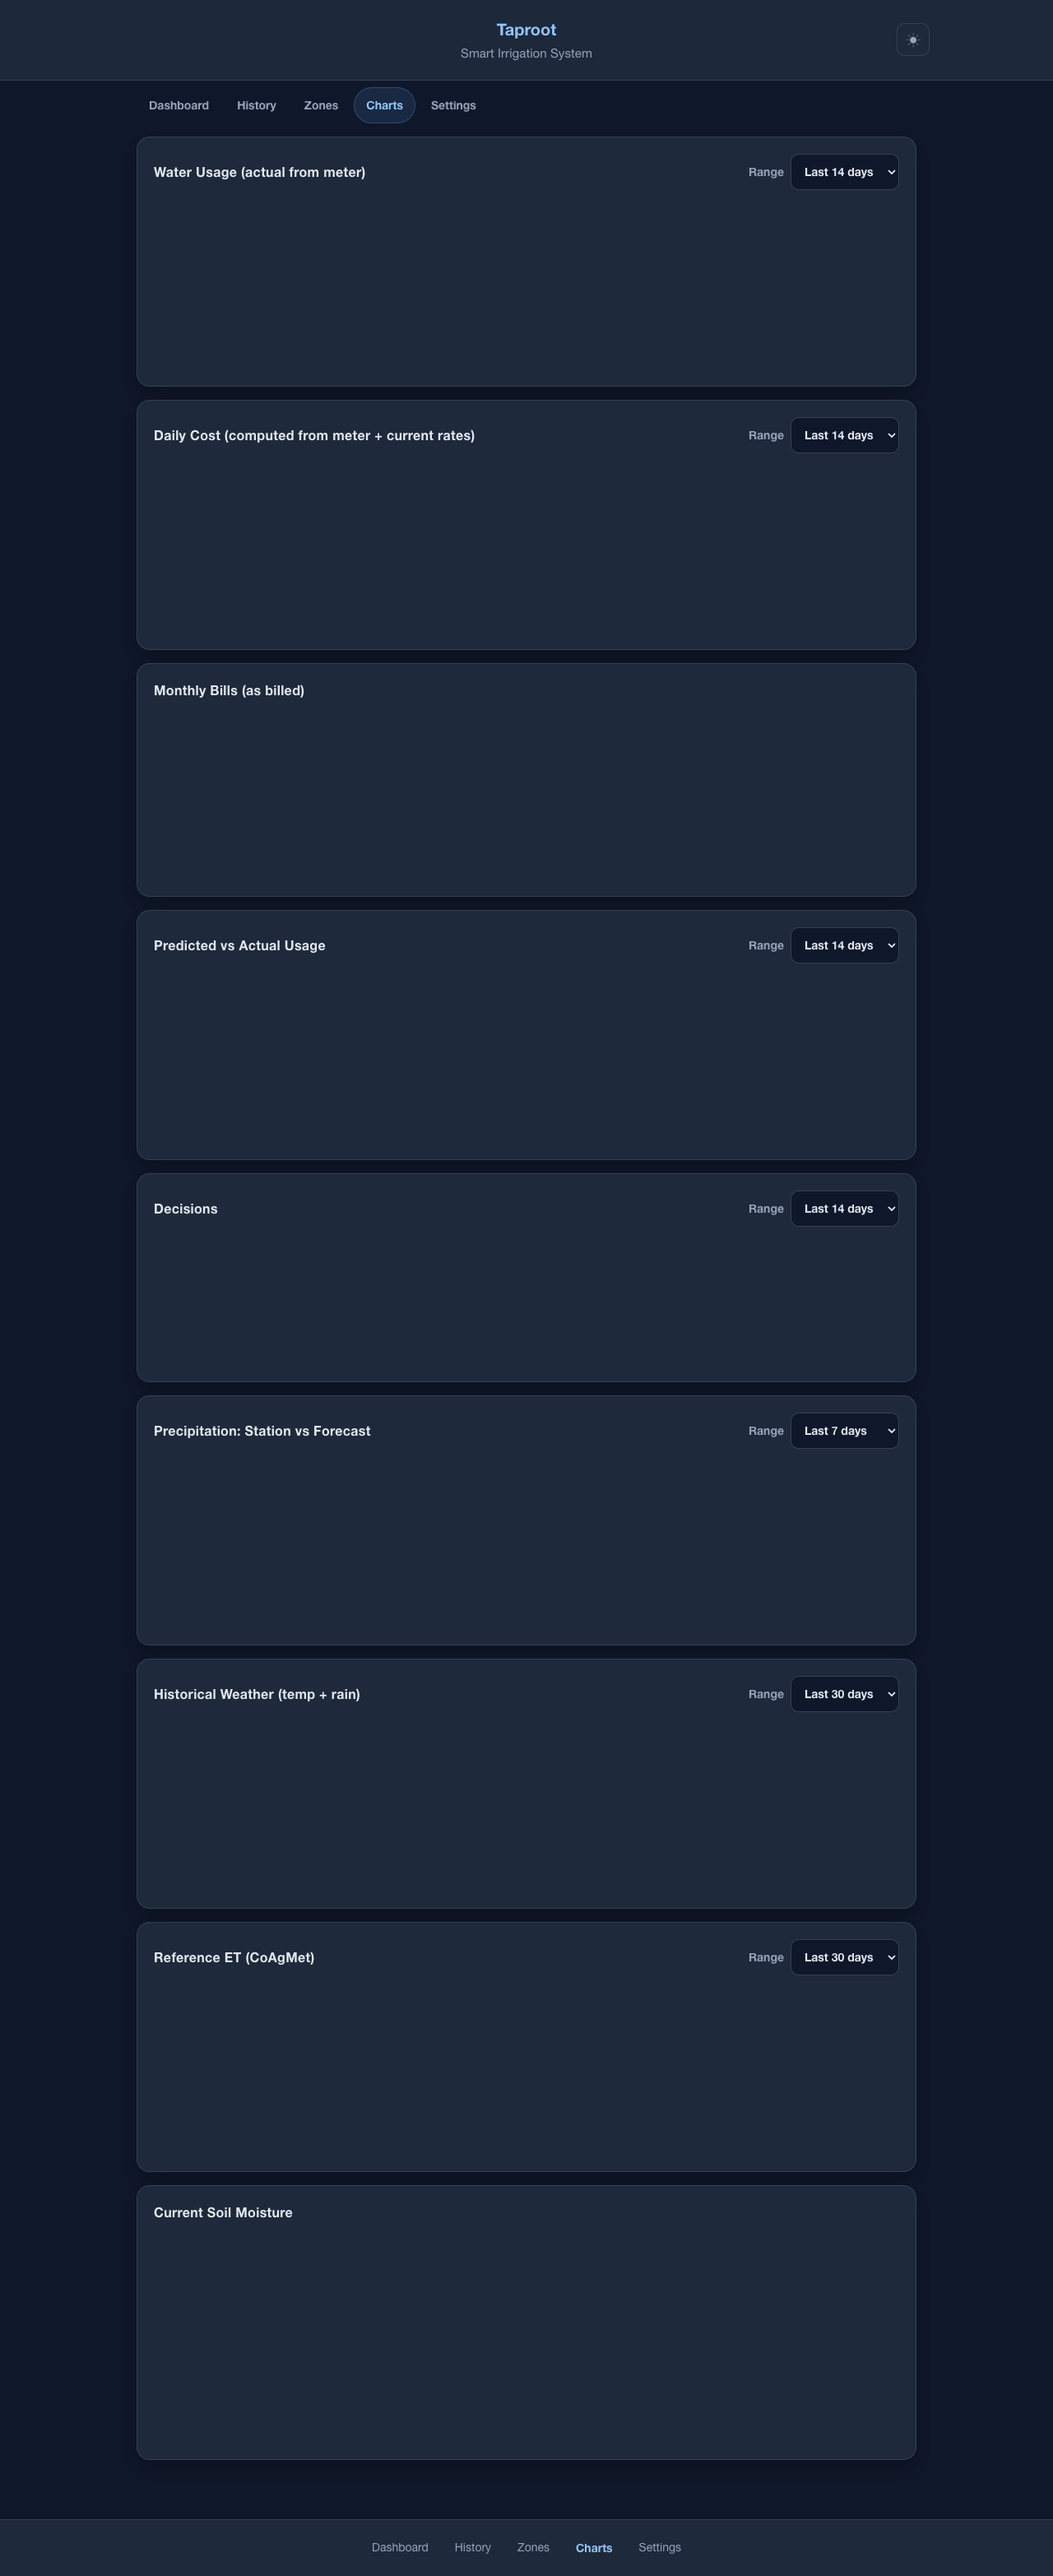
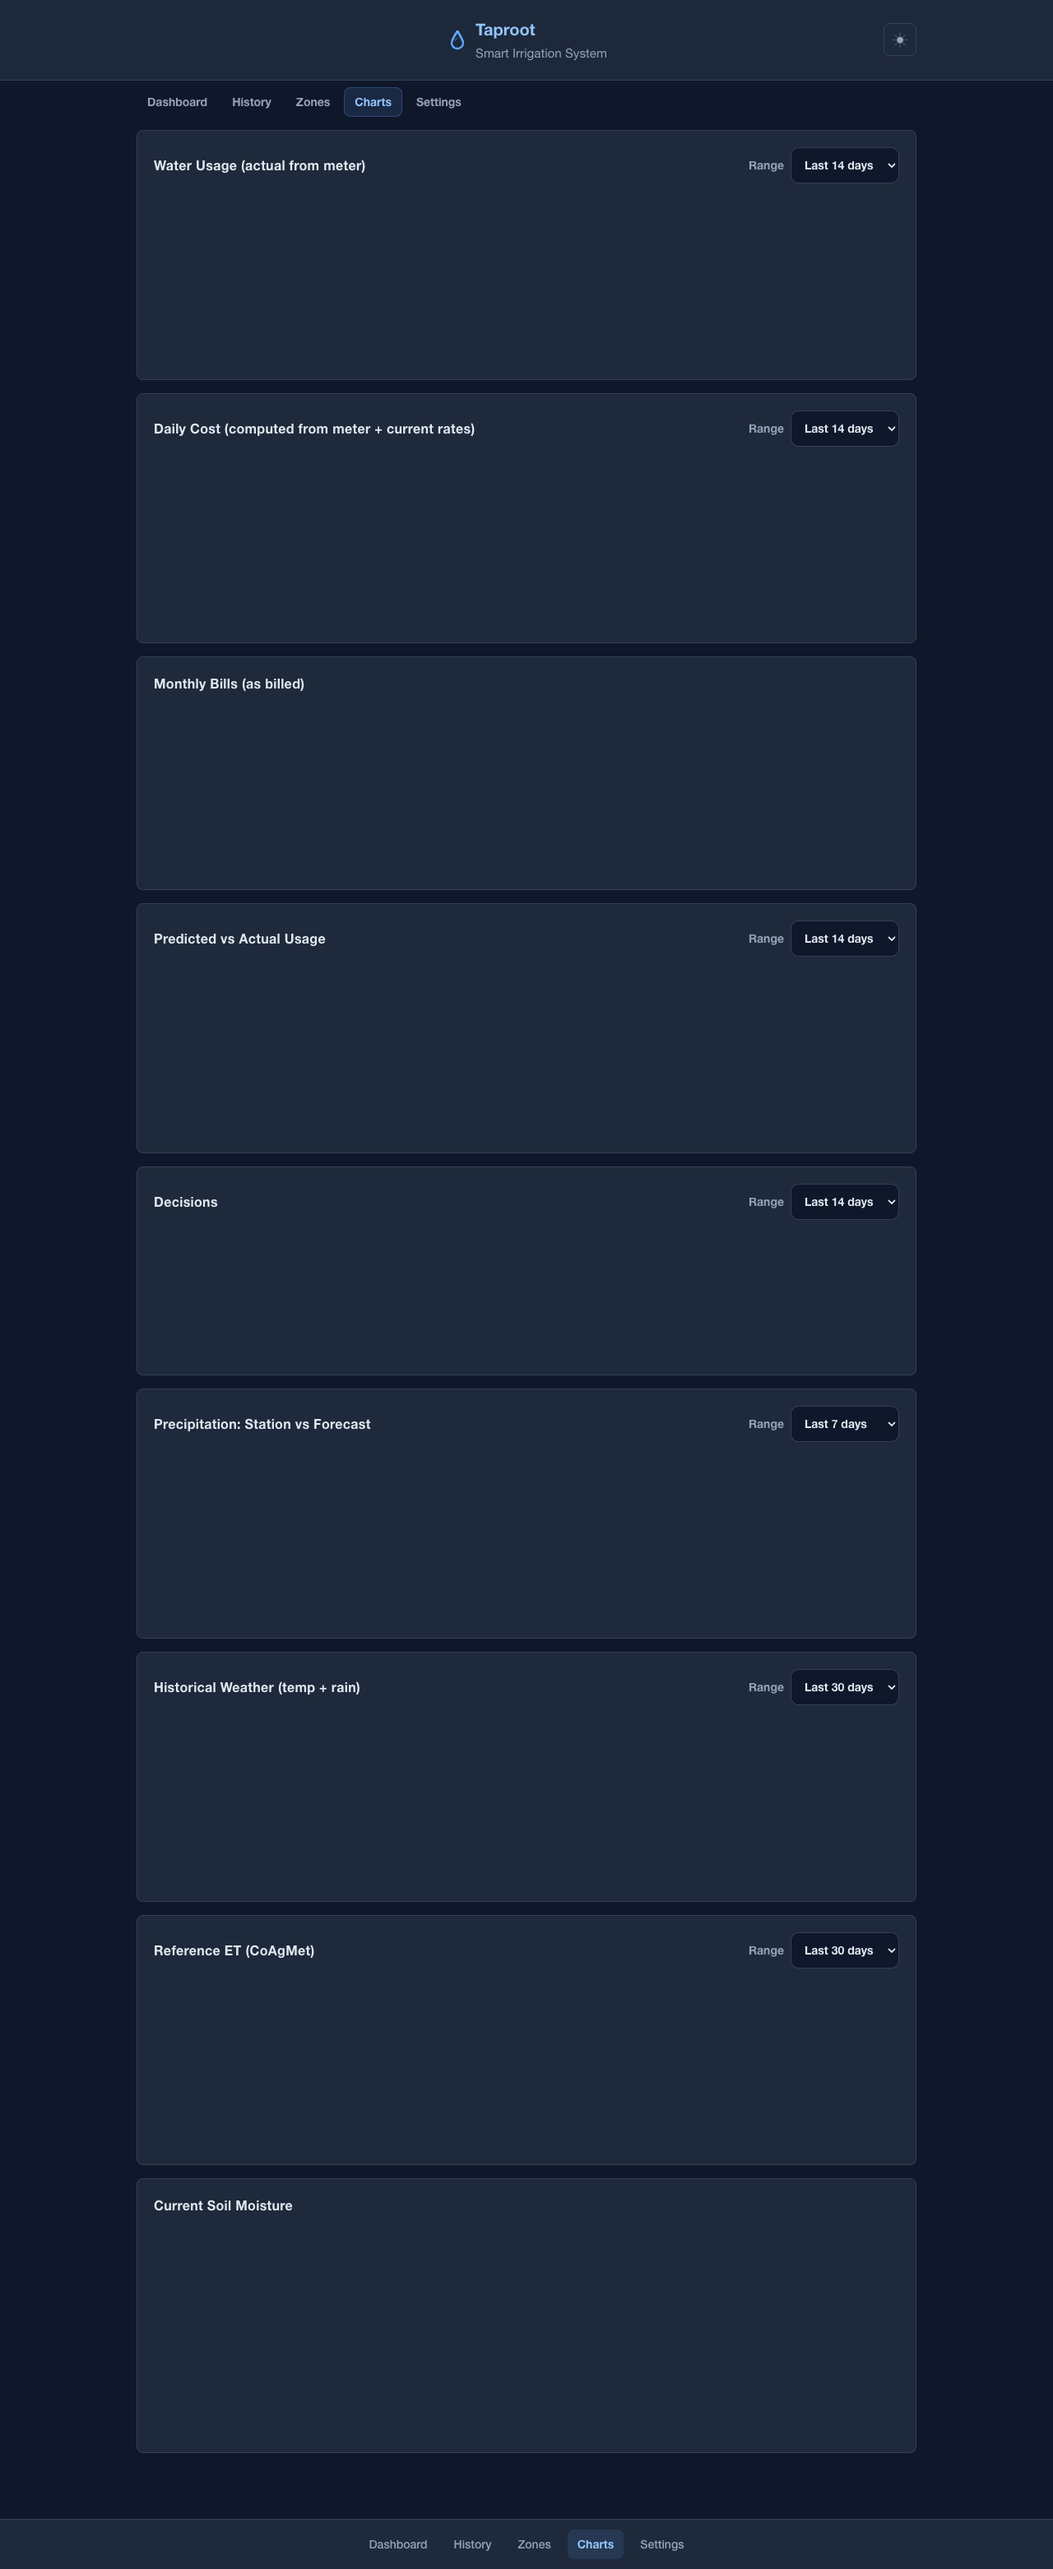
fix(charts): move inline <script> to external file (CSP blocked inline)
Previous commits' chart render code was inside a <script> block that CSP
(script-src 'self') silently blocked. Chart.js loaded fine but nothing
rendered because the initialization code never executed.

- New src/public/charts-page.js with all render logic (wrapped in IIFE,
  DOMContentLoaded-guarded)
- charts.js emits <script src="/charts-page.js?v=..."> instead of inline
- /charts-page.js added to PUBLIC_PATHS
- Legacy inline block preserved in a comment for reference
- Shrunk water-drop icon 28->20px to match text x-height proportion

diff --git a/src/public/charts-page.js b/src/public/charts-page.js
@@ -1,0 +1,303 @@
+// Charts page renderer. Loaded as an external script so CSP (script-src 'self')
+// doesn't block it. Chart.js is bundled at /chart.umd.min.js and loaded via a
+// <script> tag before this file.
+
+(function () {
+  const colors = {
+    blue: 'rgba(11, 95, 255, 0.7)',
+    green: 'rgba(15, 123, 62, 0.7)',
+    orange: 'rgba(161, 92, 0, 0.7)',
+    red: 'rgba(180, 35, 24, 0.7)',
+    purple: 'rgba(120, 60, 200, 0.7)',
+    lightGreen: 'rgba(15, 123, 62, 0.15)',
+    lightBlue: 'rgba(11, 95, 255, 0.15)',
+  };
+  const chartCache = new Map();
+  const chartInstances = {};
+
+  async function fetchChartData(days) {
+    const cacheKey = String(days);
+    if (!chartCache.has(cacheKey)) {
+      chartCache.set(cacheKey, fetch('/api/charts?days=' + encodeURIComponent(days))
+        .then(response => {
+          if (!response.ok) {
+            throw new Error('Chart data request failed with status ' + response.status);
+          }
+          return response.json();
+        }));
+    }
+    return chartCache.get(cacheKey);
+  }
+
+  function destroyChart(key) {
+    if (chartInstances[key]) {
+      chartInstances[key].destroy();
+      delete chartInstances[key];
+    }
+  }
+
+  function renderUsageChart(data) {
+    destroyChart('usage');
+    const rows = data.dailyUsage || [];
+    if (rows.length === 0) return;
+    chartInstances.usage = new Chart(document.getElementById('usageChart'), {
+      type: 'bar',
+      data: {
+        labels: rows.map(day => day.date.slice(5)),
+        datasets: [{
+          label: 'Gallons (AquaHawk)',
+          data: rows.map(day => day.gallons),
+          backgroundColor: colors.blue,
+          borderRadius: 4,
+        }],
+      },
+      options: {
+        responsive: true,
+        scales: { y: { beginAtZero: true, title: { display: true, text: 'Gallons' } } },
+      },
+    });
+  }
+
+  function renderCostChart(data) {
+    destroyChart('cost');
+    const rows = data.dailyUsage || [];
+    if (rows.length === 0) return;
+    chartInstances.cost = new Chart(document.getElementById('costChart'), {
+      type: 'line',
+      data: {
+        labels: rows.map(day => day.date.slice(5)),
+        datasets: [{
+          label: 'Cost ($)',
+          data: rows.map(day => day.cost),
+          borderColor: colors.green,
+          backgroundColor: colors.lightGreen,
+          fill: true,
+          tension: 0.3,
+        }],
+      },
+      options: {
+        responsive: true,
+        plugins: { legend: { display: false } },
+        scales: { y: { beginAtZero: true } },
+      },
+    });
+  }
+
+  function renderBillsChart(data) {
+    destroyChart('bills');
+    const bills = data.bills || [];
+    if (bills.length === 0) return;
+    chartInstances.bills = new Chart(document.getElementById('billsChart'), {
+      type: 'bar',
+      data: {
+        labels: bills.map(b => b.period_end),
+        datasets: [
+          { label: 'Water Service', data: bills.map(b => b.water_service || 0), backgroundColor: colors.blue, stack: 'cost' },
+          { label: 'Base Fee',      data: bills.map(b => b.water_base_fee || 0), backgroundColor: colors.green, stack: 'cost' },
+          { label: 'Wastewater',    data: bills.map(b => b.wastewater || 0), backgroundColor: colors.orange, stack: 'cost' },
+          { label: 'Drainage',      data: bills.map(b => b.drainage || 0), backgroundColor: colors.purple, stack: 'cost' },
+        ],
+      },
+      options: {
+        responsive: true,
+        scales: {
+          x: { stacked: true, title: { display: true, text: 'Bill period end' } },
+          y: { stacked: true, beginAtZero: true, title: { display: true, text: '$' } },
+        },
+      },
+    });
+  }
+
+  function renderPredVsActualChart(data) {
+    destroyChart('predVsActual');
+    const rows = (data.dailyUsage || []).filter(r => r.actual_gallons != null || r.predicted_gallons != null);
+    if (rows.length === 0) return;
+    chartInstances.predVsActual = new Chart(document.getElementById('predVsActualChart'), {
+      type: 'line',
+      data: {
+        labels: rows.map(r => r.date.slice(5)),
+        datasets: [
+          { label: 'Actual (AquaHawk)', data: rows.map(r => r.actual_gallons), borderColor: colors.blue, backgroundColor: colors.lightBlue, fill: false, tension: 0.2 },
+          { label: 'Predicted (Taproot model)', data: rows.map(r => r.predicted_gallons), borderColor: colors.orange, backgroundColor: 'transparent', fill: false, borderDash: [5, 3], tension: 0.2 },
+        ],
+      },
+      options: {
+        responsive: true,
+        scales: { y: { beginAtZero: true, title: { display: true, text: 'Gallons' } } },
+      },
+    });
+  }
+
+  function renderDecisionChart(data) {
+    destroyChart('decision');
+    if (data.decisions.length === 0) return;
+    const dateCounts = {};
+    for (const decision of data.decisions) {
+      const key = decision.date;
+      if (!dateCounts[key]) dateCounts[key] = { water: 0, skip: 0 };
+      dateCounts[key][decision.decision === 'WATER' ? 'water' : 'skip']++;
+    }
+    const dates = Object.keys(dateCounts).sort();
+    chartInstances.decision = new Chart(document.getElementById('decisionChart'), {
+      type: 'bar',
+      data: {
+        labels: dates.map(date => date.slice(5)),
+        datasets: [
+          { label: 'Water', data: dates.map(date => dateCounts[date].water), backgroundColor: colors.blue, borderRadius: 4 },
+          { label: 'Skip', data: dates.map(date => dateCounts[date].skip), backgroundColor: colors.orange, borderRadius: 4 },
+        ],
+      },
+      options: {
+        responsive: true,
+        scales: { x: { stacked: true }, y: { stacked: true, beginAtZero: true } },
+      },
+    });
+  }
+
+  function renderPrecipChart(data) {
+    destroyChart('precip');
+    if (data.precipAudits.length === 0) return;
+    const audits = [...data.precipAudits].reverse();
+    chartInstances.precip = new Chart(document.getElementById('precipChart'), {
+      type: 'bar',
+      data: {
+        labels: audits.map(day => day.date.slice(5)),
+        datasets: [
+          { label: 'Your Station', data: audits.map(day => day.ambient_inches), backgroundColor: colors.blue, borderRadius: 4 },
+          { label: 'OpenMeteo', data: audits.map(day => day.openmeteo_inches), backgroundColor: colors.orange, borderRadius: 4 },
+        ],
+      },
+      options: {
+        responsive: true,
+        scales: { y: { beginAtZero: true, title: { display: true, text: 'Inches' } } },
+      },
+    });
+  }
+
+  function renderWeatherChart(data) {
+    destroyChart('weather');
+    const rows = data.weatherHistory || [];
+    if (rows.length === 0) return;
+    const seen = new Set();
+    const unique = rows.filter(r => (seen.has(r.date) ? false : (seen.add(r.date), true)));
+    chartInstances.weather = new Chart(document.getElementById('weatherChart'), {
+      data: {
+        labels: unique.map(r => r.date.slice(5)),
+        datasets: [
+          { type: 'line', label: 'High', data: unique.map(r => r.temp_max), borderColor: colors.red, backgroundColor: 'transparent', yAxisID: 'y', tension: 0.3 },
+          { type: 'line', label: 'Low', data: unique.map(r => r.temp_min), borderColor: colors.blue, backgroundColor: 'transparent', yAxisID: 'y', tension: 0.3 },
+          { type: 'bar', label: 'Rain (in)', data: unique.map(r => r.precipitation || 0), backgroundColor: colors.lightBlue, yAxisID: 'y1' },
+        ],
+      },
+      options: {
+        responsive: true,
+        scales: {
+          y: { type: 'linear', position: 'left', title: { display: true, text: 'F' } },
+          y1: { type: 'linear', position: 'right', grid: { drawOnChartArea: false }, title: { display: true, text: 'inches' }, beginAtZero: true },
+        },
+      },
+    });
+  }
+
+  function renderEtChart(data) {
+    destroyChart('et');
+    const rows = data.referenceET || [];
+    if (rows.length === 0) return;
+    chartInstances.et = new Chart(document.getElementById('etChart'), {
+      type: 'line',
+      data: {
+        labels: rows.map(r => r.date.slice(5)),
+        datasets: [{
+          label: 'Reference ETo (inches)',
+          data: rows.map(r => r.reference_eto),
+          borderColor: colors.green,
+          backgroundColor: colors.lightGreen,
+          fill: true,
+          tension: 0.3,
+        }],
+      },
+      options: {
+        responsive: true,
+        plugins: { legend: { display: false } },
+        scales: { y: { beginAtZero: true, title: { display: true, text: 'inches/day' } } },
+      },
+    });
+  }
+
+  function renderMoistureChart(data) {
+    destroyChart('moisture');
+    if (data.moisture.length === 0) return;
+    chartInstances.moisture = new Chart(document.getElementById('moistureChart'), {
+      type: 'bar',
+      data: {
+        labels: data.moisture.map(zone => 'Zone ' + zone.zone),
+        datasets: [{
+          label: 'Moisture %',
+          data: data.moisture.map(zone => zone.pct),
+          backgroundColor: data.moisture.map(zone =>
+            zone.pct < 40 ? colors.red : zone.pct < 60 ? colors.orange : colors.green
+          ),
+          borderRadius: 4,
+        }],
+      },
+      options: {
+        indexAxis: 'y',
+        responsive: true,
+        plugins: { legend: { display: false } },
+        scales: { x: { beginAtZero: true, max: 100, title: { display: true, text: '%' } } },
+      },
+    });
+  }
+
+  async function refreshRangeChart(kind, days) {
+    const data = await fetchChartData(days);
+    const dispatch = {
+      usage: renderUsageChart,
+      cost: renderCostChart,
+      decision: renderDecisionChart,
+      precip: renderPrecipChart,
+      predvsactual: renderPredVsActualChart,
+      weather: renderWeatherChart,
+      et: renderEtChart,
+    };
+    if (dispatch[kind]) dispatch[kind](data);
+  }
+
+  function attachRangeListener(id, kind) {
+    const el = document.getElementById(id);
+    if (!el) return;
+    el.addEventListener('change', event => {
+      refreshRangeChart(kind, Number(event.target.value)).catch(err => console.error(kind + ' chart load failed:', err));
+    });
+  }
+
+  function init() {
+    attachRangeListener('usage-days', 'usage');
+    attachRangeListener('cost-days', 'cost');
+    attachRangeListener('decision-days', 'decision');
+    attachRangeListener('precip-days', 'precip');
+    attachRangeListener('predvsactual-days', 'predvsactual');
+    attachRangeListener('weather-days', 'weather');
+    attachRangeListener('et-days', 'et');
+
+    Promise.all([fetchChartData(14), fetchChartData(7), fetchChartData(30)])
+      .then(([defaultData, precipData, thirtyDayData]) => {
+        renderUsageChart(defaultData);
+        renderCostChart(defaultData);
+        renderBillsChart(defaultData);
+        renderPredVsActualChart(defaultData);
+        renderDecisionChart(defaultData);
+        renderPrecipChart(precipData);
+        renderWeatherChart(thirtyDayData);
+        renderEtChart(thirtyDayData);
+        renderMoistureChart(defaultData);
+      })
+      .catch(err => console.error('Chart data load failed:', err));
+  }
+
+  if (document.readyState === 'loading') {
+    document.addEventListener('DOMContentLoaded', init);
+  } else {
+    init();
+  }
+})();

diff --git a/src/web/html.js b/src/web/html.js
@@ -121,10 +121,9 @@ export function layout(title, content, activeTab, options = {}) {
     <div class="header-inner">
       <div class="header-spacer" aria-hidden="true"></div>
       <a class="header-title" href="/" aria-label="Go to dashboard">
-        <span class="header-logo">
-          <svg xmlns="http://www.w3.org/2000/svg" viewBox="0 0 24 24" aria-hidden="true" width="28" height="28">
+        <span class="header-logo" aria-hidden="true">
+          <svg xmlns="http://www.w3.org/2000/svg" viewBox="0 0 24 24" width="20" height="20">
             <path fill="currentColor" d="M12 2.5c-.6 0-1.14.32-1.44.83C8.9 6 5 12.07 5 15.5a7 7 0 0 0 14 0c0-3.43-3.9-9.5-5.56-12.17A1.67 1.67 0 0 0 12 2.5zm0 3.04c1.77 2.94 5 8.37 5 9.96a5 5 0 0 1-10 0c0-1.59 3.23-7.02 5-9.96z"/>
-            <path fill="currentColor" opacity="0.5" d="M12 10.5c-1.66 0-3 1.34-3 3 0 .28.22.5.5.5s.5-.22.5-.5c0-1.1.9-2 2-2 .28 0 .5-.22.5-.5s-.22-.5-.5-.5z"/>
           </svg>
         </span>
         <span class="header-text">

diff --git a/src/charts.js b/src/charts.js
@@ -173,6 +173,14 @@ export function chartsPageContent() {
     </div>
 
     <script src="/chart.umd.min.js"></script>
+    <script src="/charts-page.js?v=20260422" defer></script>
+  `;
+}
+
+/*
+Legacy inline block below kept only for reference; removed at runtime.
+The functional copy now lives at src/public/charts-page.js (CSP requires external).
+Original inline:
     <script>
       const colors = {
         blue: 'rgba(11, 95, 255, 0.7)',
@@ -479,5 +487,4 @@ export function chartsPageContent() {
         })
         .catch(err => console.error('Chart data load failed:', err));
     </script>
-  `;
-}
+*/

diff --git a/src/public/styles.css b/src/public/styles.css
@@ -155,10 +155,13 @@ a:focus-visible, button:focus-visible, input:focus-visible, select:focus-visible
 .header-logo {
   color: var(--primary);
   display: inline-flex;
+  align-items: center;
   flex-shrink: 0;
+  line-height: 1;
 }
 .header-text {
   text-align: left;
+  line-height: 1.2;
 }
 .header h1 {
   margin: 0;

diff --git a/src/web/routes.js b/src/web/routes.js
@@ -57,6 +57,7 @@ const PUBLIC_PATHS = new Set([
   '/ai.js',
   '/satellite.js',
   '/chart.umd.min.js',
+  '/charts-page.js',
 ]);
 
 // -- HTTP helpers ------------------------------------------------------------
